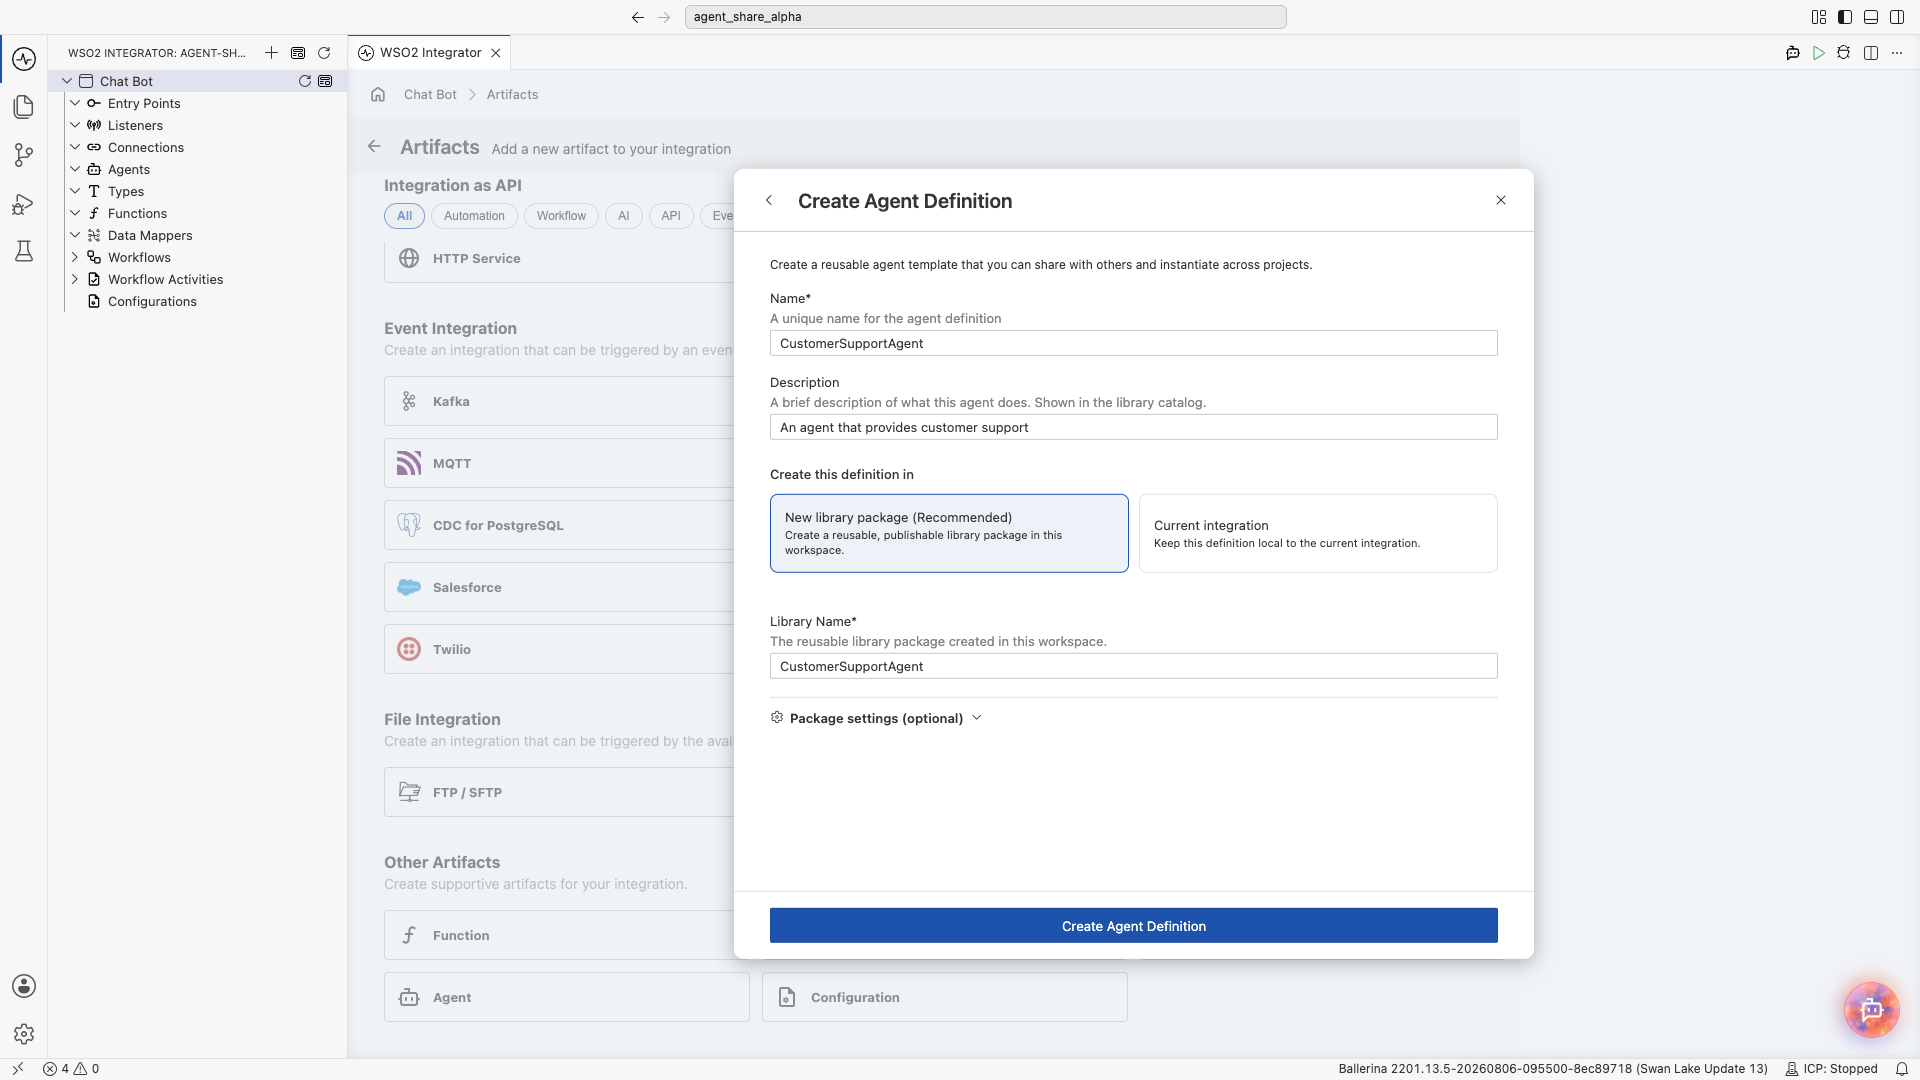
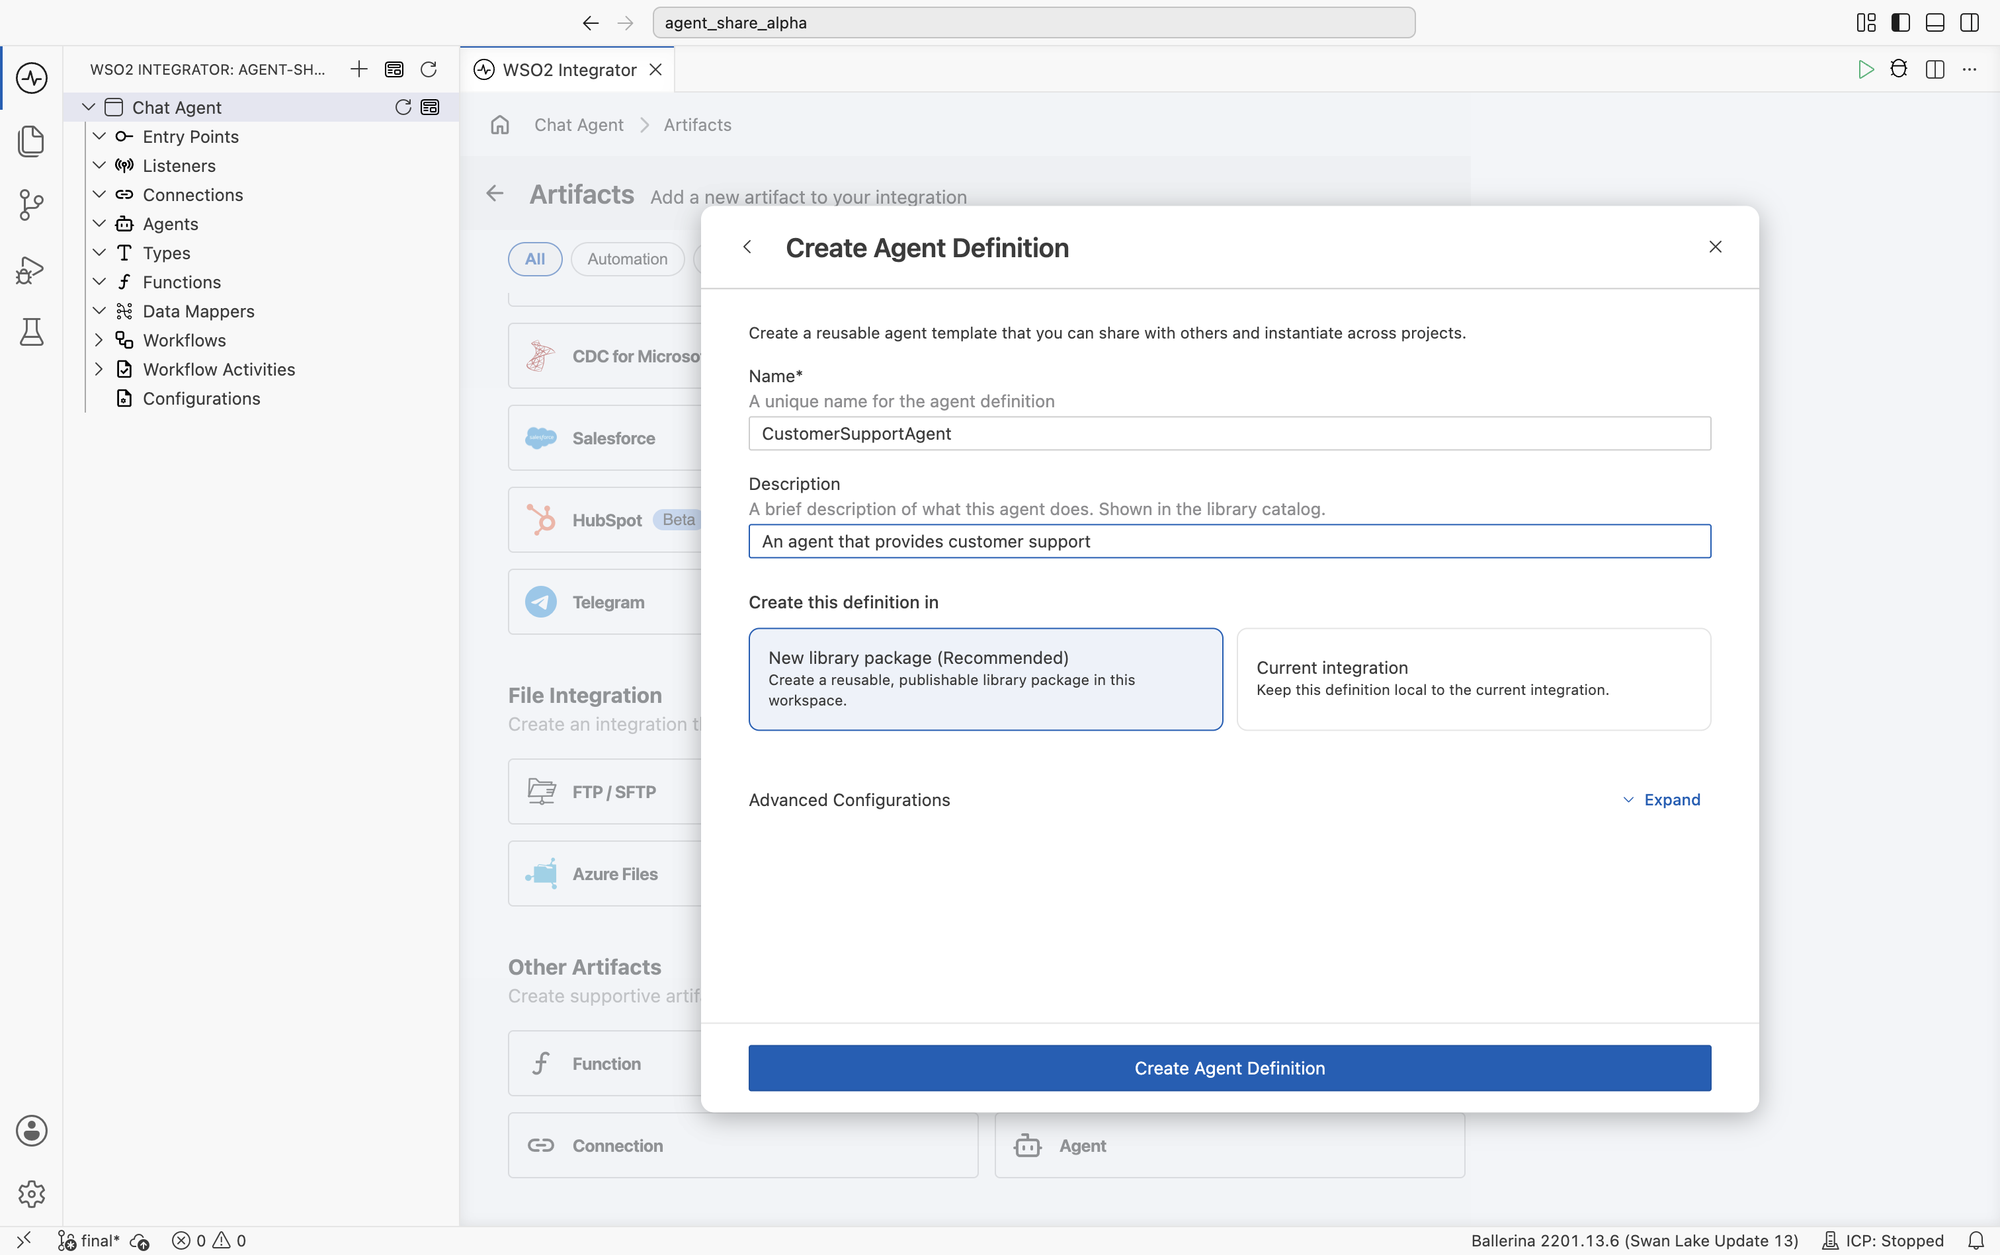
Refine agent definition terminology and screenshots
- Replace "one-off agent" with plain "agent", matching the Add Agent
  dialog, and use "inline agent" only as a table label.
- Move Library Name and package settings under Advanced configurations,
  reflecting the reorganized Create Agent Definition form.
- Update the Create Agent Definition and Agent Definition Designer
  screenshots.
- Correct the Pre-built Agents Project tab: definitions kept in the
  current integration also appear there.

diff --git a/en/docs/genai/develop/agents/definitions/overview.md b/en/docs/genai/develop/agents/definitions/overview.md
@@ -11,19 +11,19 @@ import TabItem from '@theme/TabItem';
 
 An **agent definition** is a reusable template for an agent. It captures the role, instructions, tools, and response type once, so the same agent can be instantiated in more than one integration or shared with other projects and other teams.
 
-A **one-off agent**, by contrast, is a single agent instance that belongs to the integration it was created in.
+An **agent** (or an *inline agent*, where the two need distinguishing) is created directly in an integration and belongs to it. It can be used as many times as that integration needs, but it cannot be shared beyond it.
 
 This page describes when to use each, how to create an agent definition, and how to configure it in the Agent Definition Designer.
 
 ## Definitions and instances
 
-| | One-off agent | Agent definition |
+| | Inline agent | Agent definition |
 |---|---|---|
 | **What it is** | A single agent instance | A template that agent instances are created from |
 | **Scope** | The integration it was created in | Reusable across integrations and projects |
 | **Reuse** | Can reuse the instance within the same integration | Instantiate as many times as needed |
 | **Updating behavior** | Edit the instance | Edit the definition; instances pick up the change |
-| **Use it when** | The agent is specific to one flow and won't be reused | The same agent is needed in several places, or by other teams |
+| **Use it when** | The agent is specific to this integration and isn't needed elsewhere | The same agent is needed in several places, or by other teams |
 
 A definition is a template, not a running agent. Nothing executes until an instance is created from it either in an integration flow, or as a [tool of another agent](../multi-agent/agents-as-tools.md).
 
@@ -50,28 +50,30 @@ Only a definition in a library package can be published and consumed by other pr
 4. The **Add Agent** dialog opens.
 5. Select **Create Agent Definition**.
 
-![The Create Agent Definition form with Name, Description, a Create this definition in selector set to New library package, and a Library Name field.](/img/genai/develop/agents/definitions/03-create-agent-definition-library-package.png)
+![The Create Agent Definition form with Name, Description, a Create this definition in selector set to New library package, and a collapsed Advanced Configurations section.](/img/genai/develop/agents/definitions/03-create-agent-definition-library-package.png)
 
 | Field | Required | Description |
 |---|---|---|
 | **Name** | Yes | A unique name for the agent definition, such as `CustomerSupportAgent`. |
 | **Description** | No | A brief description of what the agent does. This is shown in the library catalog, so write it for the people who will consume the definition. |
 | **Create this definition in** | Yes | **New library package** creates a reusable, publishable package in this workspace. **Current integration** keeps the definition local. |
-| **Library Name** | Yes | The name of the reusable library package created in the workspace. Shown only when **New library package** is selected. |
 
-### Package settings
+### Advanced configurations
 
-When creating the definition in a new library package, you can optionally configure **Package settings** to control how the package is published.
+The defaults are derived from the definition's name and your account, so most definitions need nothing here. Click **Expand** on **Advanced Configurations** to change how the library package is named and versioned.
 
 | Field | Required | Description |
 |---|---|---|
+| **Library Name** | Yes | The name of the reusable library package created in this workspace. |
 | **Package Name** | Yes | The package name used when the definition is published and imported. |
 | **Organization** | Yes | The organization that owns this package. This is derived from your account and cannot be edited here. |
 | **Package Version** | No | The version of the package. Defaults to `0.1.0`. |
 
+These fields apply only when **New library package** is selected.
+
 ## Agent Definition Designer
 
-After clicking **Create Agent Definition**, WSO2 Integrator generates the definition and opens the Agent Definition Designer. The designer is where you configure what the agent does. Unlike a one-off agent, a definition is configured through a form rather than the integration canvas since a definition has no flow of its own, because it runs wherever it is instantiated.
+After clicking **Create Agent Definition**, WSO2 Integrator generates the definition and opens the Agent Definition Designer. The designer is where you configure what the agent does. Unlike an agent created directly in an integration, a definition is configured through a form rather than the integration canvas since a definition has no flow of its own, because it runs wherever it is instantiated.
 
 ![The Agent Definition Designer for CustomerSupportAgent, showing the name and description header, a Configuration card with Role and Instructions, a Tools section with an Add Tool button, a Response Type set to string, an Initialization Parameters section, and a collapsed Advanced section.](/img/genai/develop/agents/definitions/06-agent-definition-designer.png)
 
@@ -97,7 +99,7 @@ Because a definition can be instantiated in contexts you don't control, write in
 
 ### Tools
 
-Click **+ Tool** to add capabilities to the definition. The tool types and their configuration are the same as for any other agent — connections, functions, MCP servers, custom tools, and other agents. See [Tools](../tools.md).
+Click **+ Tool** to add capabilities to the definition. The tool types and their configuration are the same as for any other agent: connections, functions, MCP servers, custom tools, and other agents. See [Tools](../tools.md).
 
 Tools added to a definition are part of the template: every instance created from it gets the same tools.
 
@@ -105,7 +107,7 @@ Tools added to a definition are part of the template: every instance created fro
 
 **Response Type** defines the type of value the agent returns when it completes. It defaults to `string`.
 
-Choose a simple type such as `string`, `int`, or `boolean`, or a record type when the agent should return structured data — for example, a support ticket with a category, a priority, and a summary.
+Choose a simple type such as `string`, `int`, or `boolean`, or a record type when the agent should return structured data, such as a support ticket with a category, a priority, and a summary.
 
 A structured response type is easier to work with than `string`, because the result can be used directly instead of being interpreted again. This matters most when the definition is used as a tool by another agent: the response type is the shape the calling agent receives.
 

diff --git a/en/docs/genai/develop/agents/multi-agent/agents-as-tools.md b/en/docs/genai/develop/agents/multi-agent/agents-as-tools.md
@@ -1,7 +1,7 @@
 ---
 sidebar_position: 2
 title: Agents as Tools
-description: Attach an agent as a tool of another AI agent in WSO2 Integrator — reusing an existing instance, creating a one-off agent, or instantiating a shared agent definition.
+description: Attach an agent as a tool of another AI agent in WSO2 Integrator — reusing an existing instance, creating a new agent, or instantiating a shared agent definition.
 ---
 
 # Agents as Tools
@@ -27,7 +27,7 @@ This is the same dialog used to add an agent as an artifact, with the same optio
 
 | Option | Result |
 |---|---|
-| **Create Agent** | A one-off agent instance, created for this integration and used only here. |
+| **Create Agent** | An agent instance created for this integration and used only here. |
 | **Create Agent Definition** | A reusable definition, and an instance of it attached as the tool. |
 | **Pre-built Agents** | An instance of a definition that already exists in this project or your organization. |
 
@@ -63,7 +63,7 @@ Write the tool description around the trigger condition — the situations in wh
 
 ## What the sub-agent returns
 
-The value the calling agent receives is determined by the sub-agent's response type — the **Response Type** of an [agent definition](../definitions/overview.md#response-type), or the **Type Descriptor** in a one-off agent's advanced configuration.
+The value the calling agent receives is determined by the sub-agent's response type — the **Response Type** of an [agent definition](../definitions/overview.md#response-type), or the **Type Descriptor** in the advanced configuration of an agent created directly in an integration.
 
 A narrow response type makes the sub-agent easier for the calling agent to use, because the result needs no further interpretation. A `string` response gives the calling agent prose it must reason about again.
 

diff --git a/en/docs/genai/develop/agents/definitions/sharing-and-reusing-definitions.md b/en/docs/genai/develop/agents/definitions/sharing-and-reusing-definitions.md
@@ -68,7 +68,7 @@ A definition also carries its own composition as metadata: the tools it uses, it
 | Tab | Shows |
 |---|---|
 | **All** | Every definition available to you. |
-| **Project** | Definitions created in the current workspace. |
+| **Project** | Definitions in the current workspace, including those kept in the current integration. |
 | **Organization** | Definitions published by your organization. |
 
 Use the search box to filter by name.
@@ -118,7 +118,6 @@ A definition that works well in the integration it was written for often fails e
 
 | Symptom | Likely cause | Fix |
 |---|---|---|
-| The definition doesn't appear under **Organization**. | It hasn't been published, or was created in the current integration. | Confirm it lives in a library package, then publish it. |
 | Two definitions have the same name. | Different organizations or packages publish the same name. | Check the organization and package shown under the entry name. |
 | A consumer stops compiling after an upgrade. | A breaking change shipped without a major version bump. | Pin the previous version, then follow the versioning table above. |
 | The agent behaves differently in each consuming project. | Consumers supply different models or memory implementations. | Document the expected model class and memory scope in the description. |
